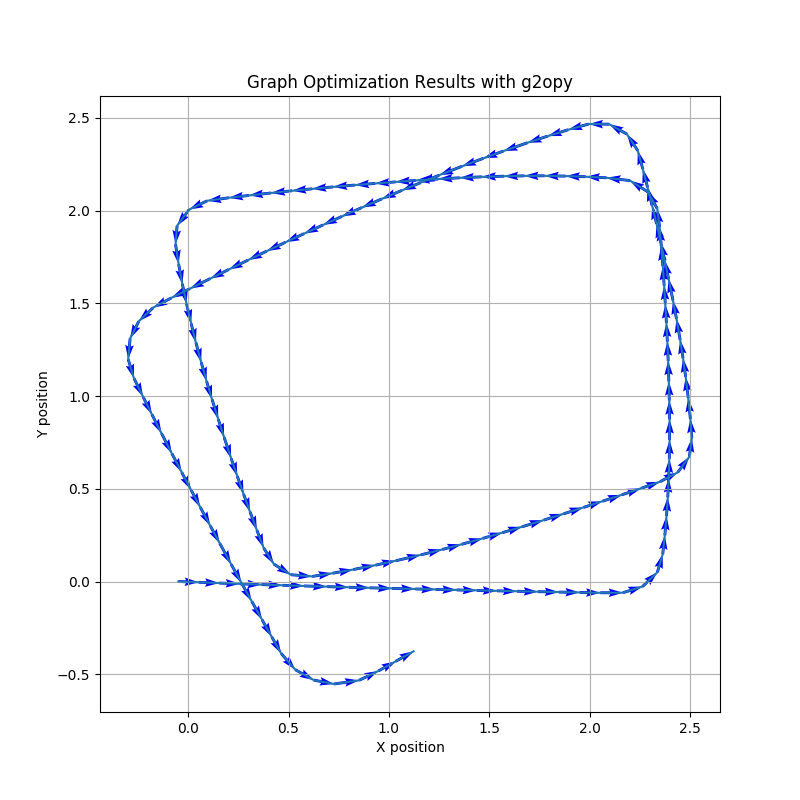
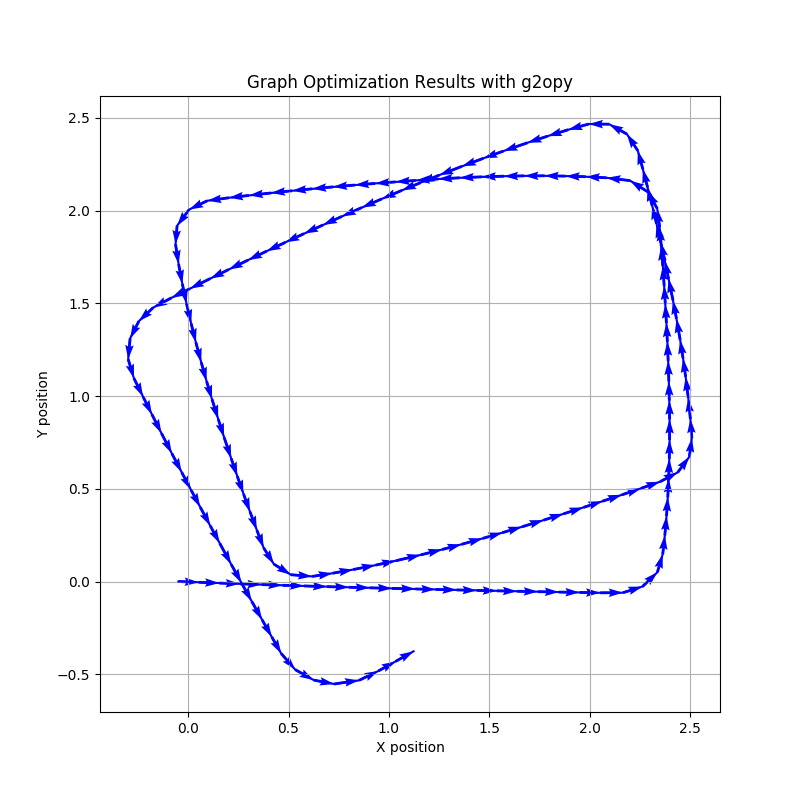
comment prettify

diff --git a/Experiment5/slam.py b/Experiment5/slam.py
@@ -6,26 +6,27 @@ import icp
 from scipy.spatial.transform import Rotation as R
 import matplotlib.pyplot as plt
     
-def plot_g2o(optimizer, showedge = False):
+def plot_g2o(optimizer, showedge = False): 
+    #Get x and y positions
     poses = []
-    for vertex_id, vertex in optimizer.vertices().items():
+    for _, vertex in optimizer.vertices().items():
         pose = vertex.estimate()
         translation = pose.translation()
-        poses.append((translation[0], translation[1]))  # Get x and y positions
-
+        poses.append((translation[0], translation[1])) 
     x, y = zip(*poses)
 
-    # Plotting
+    #Plot
     plt.figure(figsize=(8, 8))
-    plt.quiver(x[:-1], y[:-1], np.diff(x), np.diff(y), scale_units='xy', angles='xy', scale=1, color='blue')  
-    plt.plot(x, y, '-', markersize=5)  # 'bo-' for blue circle markers connected by lines
+    plt.quiver(x[:-1], y[:-1], np.diff(x), np.diff(y), scale_units='xy', angles='xy', scale=1, color='blue')  #arrows
+    plt.plot(x, y, '-b', markersize=5) #line
     
     if showedge:
         for edge in optimizer.edges():
             v1, v2 = edge.vertices()
             x = np.array([v1.estimate().translation()[0], v2.estimate().translation()[0]])
             y = np.array([v1.estimate().translation()[1], v2.estimate().translation()[1]])
-            plt.plot(x, y, '-k', alpha=0.5)
+            plt.plot(x, y, '-k', alpha=0.5) #edge lines
+            
     plt.xlabel('X position')
     plt.ylabel('Y position')
     plt.title('Graph Optimization Results with g2opy')
@@ -35,10 +36,12 @@ def plot_g2o(optimizer, showedge = False):
 
 def calculate_information_matrix(dist_diff, yaw_diff):
     information_matrix = np.eye(6)
+    # Update x, y covariance based on distance difference
+    information_matrix[0, 0] = dist_diff  
+    information_matrix[1, 1] = dist_diff
     
-    information_matrix[0, 0] = dist_diff  # Update x covariance based on distance difference
-    information_matrix[1, 1] = dist_diff  # Update y covariance based on distance difference
-    information_matrix[5, 5] = yaw_diff   # Update yaw covariance based on yaw difference
+    # Update yaw covariance based on yaw difference
+    information_matrix[5, 5] = yaw_diff  
     
     return information_matrix
 
